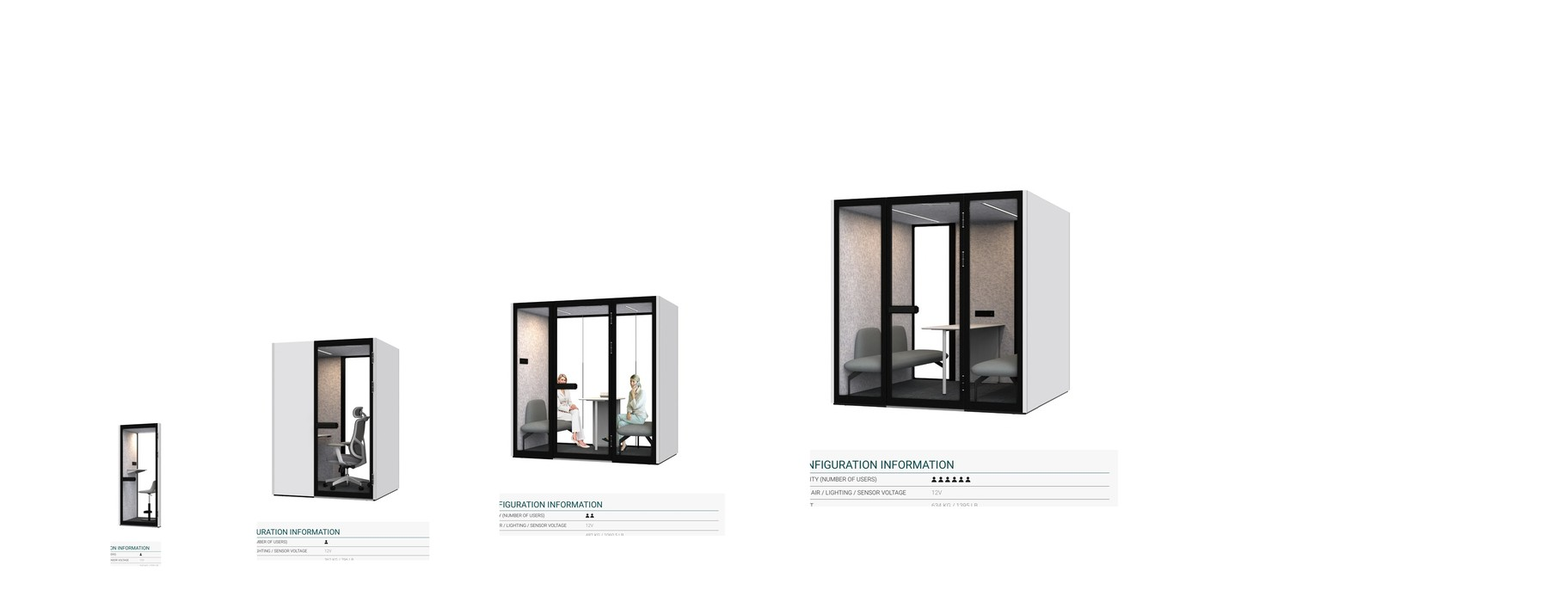
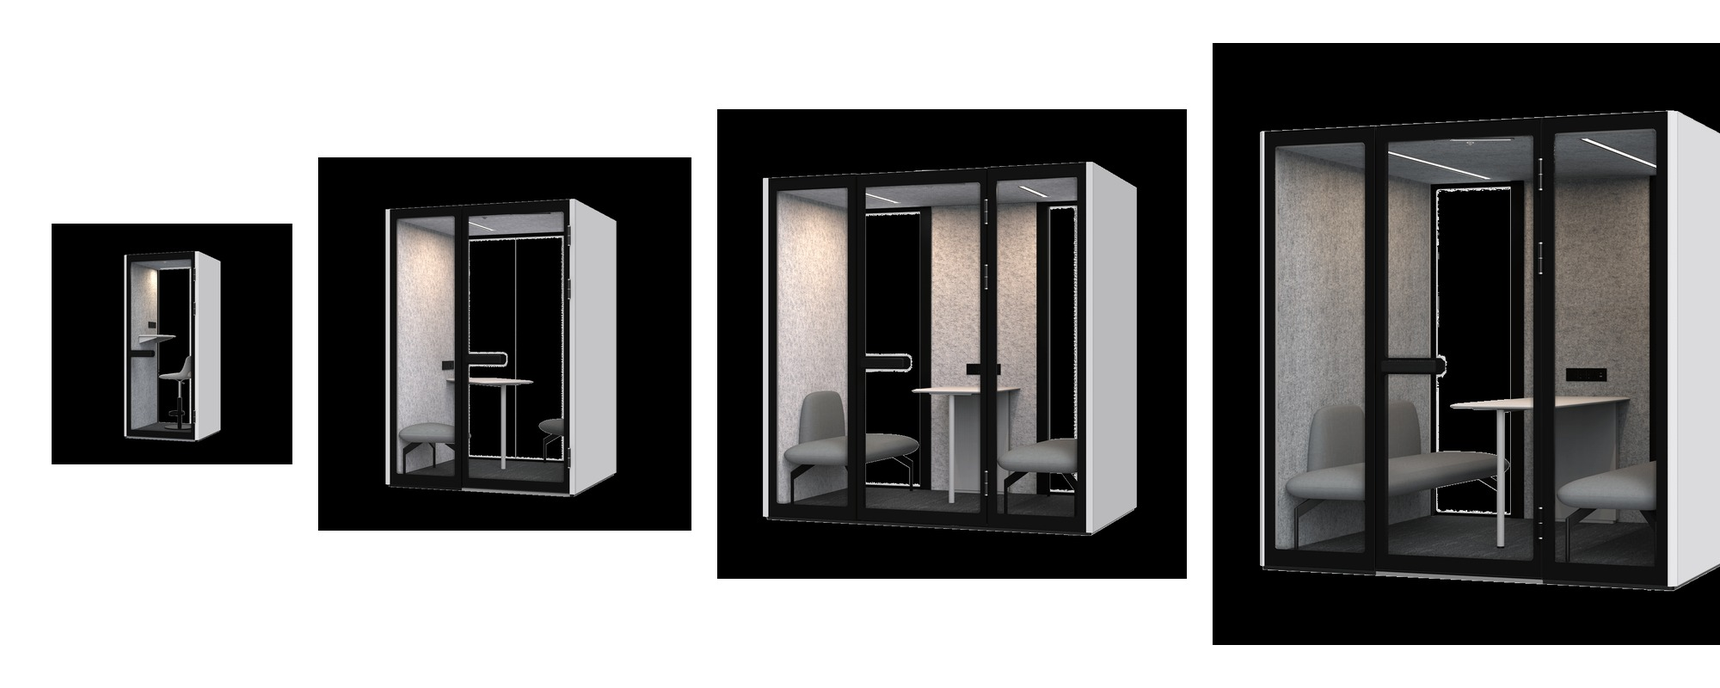
Major upgrade: clean tier images, branded carousel, noise demo, mtip@hey.com
Tier card images:
- Replaced spec-sheet-cropped tier renders with clean Comine product
  shots (no spec text, dark backgrounds, professional lighting)
- New lineup-comparison.jpg shows all 4 pods at relative scale

NEW: Image carousel section (#gallery)
- 18 high-res images of MTIP-branded pods in:
  open offices, coworking floors, lobbies, industrial spaces,
  airport terminals, multi-pod installations, and product detail
- All with subtle MTIP Collective brand badge overlay
- Horizontal scroll with snap, prev/next nav, slide counter

NEW: Interactive noise insulation demo (#hear-it)
- Web Audio API simulation
- Click 'Outside the pod' → ~68 dB pink noise + voices (open office)
- Click 'Step inside the pod' → smooth lowpass + volume drop to ~38 dB
- Live decibel meter, color shift to green when quiet
- Status messaging updates in real-time

CTAs and contact:
- All emails switched to mtip@hey.com
- 'Talk to Sales' → 'Talk to the Team' with phone icon
- New dark CTA card 'Want to talk through it with someone?'
  with Book-a-call + Email-the-team buttons

diff --git a/index.html b/index.html
@@ -18,7 +18,114 @@
 <link rel="preconnect" href="https://fonts.googleapis.com">
 <link rel="preconnect" href="https://fonts.gstatic.com" crossorigin>
 <link href="https://fonts.googleapis.com/css2?family=Inter:wght@300;400;500;600;700;800;900&display=swap" rel="stylesheet">
-<script src="https://unpkg.com/lucide@latest/dist/umd/lucide.js"></script>
+<script src="https://unpkg.com/lucide@latest/dist/umd/lucide.js">
+
+// CAROUSEL
+const cTrack = document.getElementById('carouselTrack');
+const cPrev = document.getElementById('carouselPrev');
+const cNext = document.getElementById('carouselNext');
+const cCounter = document.getElementById('carouselCounter');
+const cSlides = cTrack ? cTrack.querySelectorAll('.carousel-slide') : [];
+let cIdx = 0;
+function cUpdate(){if(!cCounter)return;cCounter.textContent=(cIdx+1)+' / '+cSlides.length;}
+function cGo(i){if(!cSlides.length)return;cIdx=Math.max(0,Math.min(cSlides.length-1,i));cSlides[cIdx].scrollIntoView({behavior:'smooth',inline:'center',block:'nearest'});cUpdate();}
+cPrev&&cPrev.addEventListener('click',()=>cGo(cIdx-1));
+cNext&&cNext.addEventListener('click',()=>cGo(cIdx+1));
+if(cTrack){let cTimer;cTrack.addEventListener('scroll',()=>{clearTimeout(cTimer);cTimer=setTimeout(()=>{const center=cTrack.scrollLeft+cTrack.clientWidth/2;let best=0,bestD=Infinity;cSlides.forEach((s,i)=>{const d=Math.abs(s.offsetLeft+s.clientWidth/2-center);if(d<bestD){bestD=d;best=i;}});cIdx=best;cUpdate();},120);});}
+cUpdate();
+
+// NOISE DEMO — Web Audio API
+let nCtx,nNoise,nGain,nFilter,nLfo,nLfoGain,nOscArr=[],nState='off';
+const nDb=document.getElementById('noiseDb');
+const nFill=document.getElementById('noiseFill');
+const nStatus=document.getElementById('noiseStatus');
+const nLabel=document.getElementById('noiseStateLabel');
+const nDesc=document.getElementById('noiseStateDesc');
+const nBtnO=document.getElementById('noiseBtnOutside');
+const nBtnI=document.getElementById('noiseBtnInside');
+const nBtnS=document.getElementById('noiseBtnStop');
+function nMakeNoise(ctx){
+  const buffer=ctx.createBuffer(1,ctx.sampleRate*2,ctx.sampleRate);
+  const data=buffer.getChannelData(0);
+  let lastOut=0;
+  // pink noise
+  for(let i=0;i<data.length;i++){const white=Math.random()*2-1;data[i]=(lastOut+(0.02*white))/1.02;lastOut=data[i];data[i]*=3.5;}
+  const src=ctx.createBufferSource();src.buffer=buffer;src.loop=true;return src;
+}
+function nStart(mode){
+  if(!nCtx){nCtx=new(window.AudioContext||window.webkitAudioContext)();}
+  if(nCtx.state==='suspended')nCtx.resume();
+  nStop(true);
+  nNoise=nMakeNoise(nCtx);
+  nFilter=nCtx.createBiquadFilter();
+  nFilter.type='lowpass';
+  nGain=nCtx.createGain();
+  nNoise.connect(nFilter);nFilter.connect(nGain);nGain.connect(nCtx.destination);
+  // Subtle "voices" added with detuned oscillators sweeping
+  const freqs=[180,240,300,420];
+  freqs.forEach(f=>{
+    const o=nCtx.createOscillator();const og=nCtx.createGain();
+    o.type='sawtooth';o.frequency.value=f;og.gain.value=0.012;
+    const lf=nCtx.createOscillator();const lfg=nCtx.createGain();
+    lf.frequency.value=0.4+Math.random()*0.6;lfg.gain.value=8;
+    lf.connect(lfg);lfg.connect(o.frequency);
+    o.connect(og);og.connect(nFilter);
+    o.start();lf.start();
+    nOscArr.push({o:o,lf:lf});
+  });
+  nNoise.start();
+  if(mode==='outside'){
+    nFilter.frequency.value=8000;
+    nGain.gain.value=0.30;
+    nState='outside';
+    setMeter(68,'Open office — too loud to focus.','outside');
+    nBtnO.classList.add('active');nBtnI.classList.remove('active');
+    nLabel.textContent='Open office — outside the pod';nDesc.textContent='Phone calls. Keyboard typing. Conversations.';
+  }else{
+    // smooth transition outside → inside
+    nFilter.frequency.value=8000;nGain.gain.value=0.30;
+    const t=nCtx.currentTime;
+    nFilter.frequency.exponentialRampToValueAtTime(420,t+1.2);
+    nGain.gain.exponentialRampToValueAtTime(0.04,t+1.2);
+    nState='inside';
+    setMeter(38,'Inside the pod — conversation-private.','inside');
+    nBtnI.classList.add('active');nBtnO.classList.remove('active');
+    nLabel.textContent='Inside the MTIP Pod';nDesc.textContent='30 dB acoustic walls. Filtered. Quiet. Yours.';
+  }
+}
+function setMeter(db,msg,mode){
+  const start=parseInt(nDb.textContent)||db;
+  let frame=0;
+  const total=24;
+  const stepDb=(db-start)/total;
+  const interval=setInterval(()=>{
+    frame++;
+    const cur=Math.round(start+stepDb*frame);
+    nDb.textContent=cur;
+    nFill.style.width=Math.max(5,Math.min(100,(cur-20)*1.5))+'%';
+    if(frame>=total)clearInterval(interval);
+  },24);
+  nStatus.textContent=msg;
+  if(mode==='inside'){nDb.classList.add('quiet');nStatus.classList.add('quiet');}
+  else{nDb.classList.remove('quiet');nStatus.classList.remove('quiet');}
+}
+function nStop(silent){
+  if(nNoise){try{nNoise.stop();}catch(e){}nNoise.disconnect();}
+  nOscArr.forEach(({o,lf})=>{try{o.stop();lf.stop();}catch(e){}});
+  nOscArr=[];
+  if(!silent){
+    nState='off';nBtnO.classList.remove('active');nBtnI.classList.remove('active');
+    setMeter(0,'Demo paused.','outside');
+    nDb.classList.remove('quiet');nStatus.classList.remove('quiet');
+  }
+}
+nBtnO&&nBtnO.addEventListener('click',()=>nStart('outside'));
+nBtnI&&nBtnI.addEventListener('click',()=>{
+  if(nState==='off')nStart('outside');
+  setTimeout(()=>nStart('inside'),200);
+});
+nBtnS&&nBtnS.addEventListener('click',()=>nStop());
+</script>
 <style>
 :root{--white:#FFFFFF;--bg-soft:#FAFAFA;--bg-section:#F5F5F7;--text:#1A1D24;--text-mid:#4B4F58;--text-light:#9CA3AF;--border:#E5E7EB;--border-strong:#D1D5DB;--black:#0A0B0D;--black-soft:#16181C;--red:#E53B3B;--red-dark:#B82E2E;--red-light:#F56363;--red-glow:rgba(229,59,59,0.12);--silver:#DEE1E6;--silver-2:#C9CDD3;--grad-cta:linear-gradient(135deg,#E53B3B 0%,#B82E2E 100%);--grad-cta-hover:linear-gradient(135deg,#F56363 0%,#E53B3B 100%);--shadow-sm:0 1px 3px rgba(0,0,0,0.06);--shadow-md:0 4px 16px rgba(0,0,0,0.08);--shadow-lg:0 16px 48px rgba(0,0,0,0.12);--shadow-red:0 8px 24px rgba(229,59,59,0.25)}
 *{margin:0;padding:0;box-sizing:border-box}
@@ -298,6 +405,63 @@ footer{padding:64px 0 40px;background:var(--black);color:rgba(255,255,255,0.6);t
 .footer-divider{height:1px;background:rgba(255,255,255,0.08);max-width:600px;margin:0 auto 28px}
 .footer-credit{font-size:0.82rem;color:rgba(255,255,255,0.4)}
 .footer-credit a{color:var(--red-light);font-weight:500}
+
+.carousel-section{padding:140px 0;background:var(--white);overflow:hidden}
+@media(max-width:768px){.carousel-section{padding:80px 0}}
+.carousel-wrap{position:relative;margin-top:48px}
+.carousel-track{display:flex;gap:20px;overflow-x:auto;scroll-snap-type:x mandatory;scroll-behavior:smooth;padding:8px 32px 32px;-webkit-overflow-scrolling:touch}
+.carousel-track::-webkit-scrollbar{height:6px}
+.carousel-track::-webkit-scrollbar-track{background:var(--bg-section);border-radius:3px}
+.carousel-track::-webkit-scrollbar-thumb{background:var(--red);border-radius:3px}
+.carousel-slide{flex:0 0 auto;width:560px;aspect-ratio:16/11;border-radius:20px;overflow:hidden;position:relative;scroll-snap-align:center;cursor:pointer;background:var(--bg-section);box-shadow:var(--shadow-sm)}
+@media(max-width:768px){.carousel-slide{width:88vw}}
+.carousel-slide img{width:100%;height:100%;object-fit:cover;transition:transform 0.4s}
+.carousel-slide:hover img{transform:scale(1.04)}
+.carousel-caption{position:absolute;bottom:0;left:0;right:0;padding:24px;background:linear-gradient(to top,rgba(0,0,0,0.85) 0%,transparent 100%);color:white}
+.carousel-caption strong{display:block;font-size:1.1rem;font-weight:700;margin-bottom:4px}
+.carousel-caption span{font-size:0.85rem;color:rgba(255,255,255,0.8)}
+.carousel-nav{display:flex;justify-content:center;align-items:center;gap:16px;margin-top:32px}
+.carousel-nav button{width:48px;height:48px;border-radius:50%;border:1.5px solid var(--border-strong);background:white;cursor:pointer;display:flex;align-items:center;justify-content:center;transition:all 0.2s;color:var(--text)}
+.carousel-nav button:hover{border-color:var(--red);color:var(--red);transform:scale(1.05)}
+.carousel-nav i{width:20px;height:20px}
+.carousel-counter{font-weight:700;color:var(--text-mid);font-feature-settings:'tnum';min-width:60px;text-align:center}
+
+.noise-demo{padding:140px 0;background:linear-gradient(135deg,#1A1D24 0%,#0A0B0D 100%);color:white;position:relative;overflow:hidden}
+@media(max-width:768px){.noise-demo{padding:80px 0}}
+.noise-demo::before{content:'';position:absolute;top:0;right:-20%;width:60%;height:100%;background:radial-gradient(ellipse at center,rgba(229,59,59,0.18) 0%,transparent 70%);pointer-events:none}
+.noise-demo h2{color:white;margin-bottom:24px}
+.noise-demo p{color:rgba(255,255,255,0.7)}
+.noise-grid{display:grid;grid-template-columns:1fr 1fr;gap:64px;align-items:center;margin-top:64px}
+@media(max-width:1024px){.noise-grid{grid-template-columns:1fr;gap:40px}}
+.noise-controls{display:flex;flex-direction:column;gap:24px}
+.noise-state{display:flex;align-items:center;gap:16px;padding:24px;background:rgba(255,255,255,0.04);border:1px solid rgba(255,255,255,0.08);border-radius:16px}
+.noise-state-icon{width:56px;height:56px;border-radius:14px;display:flex;align-items:center;justify-content:center;flex-shrink:0;background:rgba(229,59,59,0.15)}
+.noise-state-icon i{width:26px;height:26px;color:var(--red-light)}
+.noise-state-text strong{display:block;color:white;font-size:1.1rem;font-weight:700;margin-bottom:4px}
+.noise-state-text span{color:rgba(255,255,255,0.6);font-size:0.9rem}
+.noise-button-group{display:flex;flex-direction:column;gap:12px}
+.noise-btn{padding:20px 28px;background:transparent;border:2px solid rgba(255,255,255,0.15);border-radius:12px;color:white;font-family:inherit;font-size:1rem;font-weight:600;cursor:pointer;transition:all 0.2s;display:flex;align-items:center;gap:12px;text-align:left}
+.noise-btn:hover{border-color:var(--red);background:rgba(229,59,59,0.08)}
+.noise-btn.active{border-color:var(--red);background:var(--red);box-shadow:var(--shadow-red)}
+.noise-btn i{width:22px;height:22px}
+.noise-meter-wrap{position:relative;background:rgba(255,255,255,0.04);border:1px solid rgba(255,255,255,0.08);border-radius:24px;padding:48px 32px;text-align:center}
+.noise-meter-label{font-size:0.78rem;font-weight:700;letter-spacing:0.18em;text-transform:uppercase;color:rgba(255,255,255,0.5);margin-bottom:24px}
+.noise-meter-display{font-size:clamp(4rem,12vw,8rem);font-weight:900;color:var(--red);letter-spacing:-0.05em;line-height:1;font-feature-settings:'tnum';margin-bottom:8px;transition:color 0.5s,transform 0.4s}
+.noise-meter-display.quiet{color:#22C55E}
+.noise-meter-unit{font-size:1.5rem;font-weight:600;color:rgba(255,255,255,0.5);margin-bottom:32px}
+.noise-meter-bar{width:100%;height:12px;background:rgba(255,255,255,0.08);border-radius:6px;overflow:hidden;margin-bottom:12px}
+.noise-meter-fill{height:100%;background:linear-gradient(to right,#22C55E 0%,#FFA500 50%,var(--red) 100%);border-radius:6px;transition:width 0.5s ease;width:75%}
+.noise-meter-scale{display:flex;justify-content:space-between;font-size:0.72rem;color:rgba(255,255,255,0.4);font-weight:600}
+.noise-meter-status{margin-top:24px;padding:14px 20px;background:rgba(229,59,59,0.1);border:1px solid rgba(229,59,59,0.3);border-radius:10px;color:var(--red-light);font-size:0.95rem;font-weight:600}
+.noise-meter-status.quiet{background:rgba(34,197,94,0.1);border-color:rgba(34,197,94,0.3);color:#4ADE80}
+
+.cta-block{background:linear-gradient(135deg,#1A1D24 0%,#0A0B0D 100%);color:white;border-radius:24px;padding:48px;margin:80px auto 0;max-width:1100px;display:grid;grid-template-columns:1fr auto;gap:40px;align-items:center;box-shadow:var(--shadow-lg);position:relative;overflow:hidden}
+.cta-block::before{content:'';position:absolute;top:0;right:-20%;width:60%;height:100%;background:radial-gradient(ellipse at center,rgba(229,59,59,0.2) 0%,transparent 70%);pointer-events:none}
+.cta-block>*{position:relative;z-index:1}
+.cta-block h3{color:white;font-size:1.85rem;margin-bottom:8px}
+.cta-block p{color:rgba(255,255,255,0.7)}
+.cta-block .actions{display:flex;flex-direction:column;gap:10px}
+@media(max-width:768px){.cta-block{grid-template-columns:1fr;padding:36px;text-align:center}.cta-block .actions{align-items:center}}
 </style>
 </head>
 <body>
@@ -332,7 +496,7 @@ footer{padding:64px 0 40px;background:var(--black);color:rgba(255,255,255,0.6);t
 <div class="tier-card featured"><div class="tier-img"><img src="assets/images/pod-suite.jpg" alt="The Suite"></div><div class="tier-body"><div class="tier-rank">Super-Best · Replace Your Office</div><h3>The Suite</h3><p class="tier-tagline">Replace your $1,500–$2,500/mo executive office. Pays back in under 5 months.</p><ul class="tier-specs"><li><i data-lucide="users"></i><span><strong>1–6 people</strong></span></li><li><i data-lucide="ruler"></i><span><strong>~49 sq ft</strong> (4.5 m²)</span></li><li><i data-lucide="volume-x"></i><span><strong>30 ± 3 dB</strong> ISO certified</span></li><li><i data-lucide="zap"></i><span>90W · USB-C + Qi</span></li></ul><div class="tier-price-block"><div class="tier-price-amount" data-cash="$6,997" data-install="$699">$6,997</div><div class="tier-price-suffix" data-cash="paid once" data-install="/mo · 12 mo · $0 down">paid once</div></div><a href="#order" class="btn btn-red">Reserve The Suite</a></div></div>
 </div>
 
-<div style="text-align:center;margin-top:48px"><p style="color:var(--text-mid)">Need <strong style="color:var(--text)">accessibility configuration</strong>? The Accessible Pod is engineered for users with reduced mobility — wide entry, auto-opening door, multi-modal access. <strong style="color:var(--text)">Pricing on request.</strong></p><a href="mailto:hello@mtip.ai?subject=Accessible%20Pod%20Inquiry" class="btn btn-ghost" style="margin-top:12px">Talk to us about accessibility <i data-lucide="arrow-right"></i></a></div>
+<div style="text-align:center;margin-top:48px"><p style="color:var(--text-mid)">Need <strong style="color:var(--text)">accessibility configuration</strong>? The Accessible Pod is engineered for users with reduced mobility — wide entry, auto-opening door, multi-modal access. <strong style="color:var(--text)">Pricing on request.</strong></p><a href="mailto:mtip@hey.com?subject=Accessible%20Pod%20Inquiry" class="btn btn-ghost" style="margin-top:12px">Talk to us about accessibility <i data-lucide="arrow-right"></i></a></div>
 </div></section>
 
 <section class="section" id="compare"><div class="container">
@@ -405,7 +569,60 @@ footer{padding:64px 0 40px;background:var(--black);color:rgba(255,255,255,0.6);t
 </div>
 </div></section>
 
-<section class="fullbleed" id="showroom"><img src="assets/images/showroom-2.jpg" alt="MTIP Collective Pods in a real office"><div class="fullbleed-overlay"><div class="fullbleed-content"><div><div class="eyebrow" style="color:var(--red-light)">Try before you buy</div><h2>Sit in one.<br>Then decide.</h2><p>Pictures don't tell you what 30 dB feels like. Visit MTIP Collective in Florida and step inside. Take a real call. Listen to the difference. Then sign.</p><a href="mailto:hello@mtip.ai?subject=Showroom%20Visit" class="btn btn-red btn-lg">Book a Showroom Visit <i data-lucide="arrow-right"></i></a></div></div></div></section>
+
+<section class="noise-demo" id="hear-it"><div class="container">
+<div class="section-header center"><div class="eyebrow" style="color:var(--red-light)">Hear it for yourself</div><h2>30 dB.<br>That's the difference.</h2><p class="lead" style="color:rgba(255,255,255,0.65);margin-left:auto;margin-right:auto">A normal open office sits between 60 and 75 dB — calls, keyboards, meetings, footsteps. Inside an MTIP Collective Pod, that drops to roughly 40 dB. Hit play. Then step inside.</p></div>
+<div class="noise-grid">
+<div class="noise-controls">
+<div class="noise-state"><div class="noise-state-icon"><i data-lucide="ear" id="noiseStateIcon"></i></div><div class="noise-state-text"><strong id="noiseStateLabel">Open office — outside the pod</strong><span id="noiseStateDesc">Phone calls. Keyboard typing. Conversations.</span></div></div>
+<div class="noise-button-group">
+<button class="noise-btn active" id="noiseBtnOutside"><i data-lucide="play"></i><div><strong>Outside the pod</strong><div style="color:rgba(255,255,255,0.6);font-size:0.85rem;margin-top:2px">Hear what your office sounds like right now</div></div></button>
+<button class="noise-btn" id="noiseBtnInside"><i data-lucide="volume-1"></i><div><strong>Step inside the pod</strong><div style="color:rgba(255,255,255,0.6);font-size:0.85rem;margin-top:2px">Same sound, with our 30 dB acoustic walls</div></div></button>
+<button class="noise-btn" id="noiseBtnStop" style="opacity:0.6"><i data-lucide="square"></i><div><strong>Stop demo</strong></div></button>
+</div>
+<p style="color:rgba(255,255,255,0.45);font-size:0.85rem;margin-top:8px"><i data-lucide="info" style="width:14px;height:14px;display:inline;vertical-align:-2px"></i> Browser audio simulation. Not a measurement of an actual pod — but the dB drop is what real ISO-23351-1 testing reports.</p>
+</div>
+<div class="noise-meter-wrap">
+<div class="noise-meter-label">Sound level</div>
+<div class="noise-meter-display" id="noiseDb">68</div>
+<div class="noise-meter-unit">dB</div>
+<div class="noise-meter-bar"><div class="noise-meter-fill" id="noiseFill"></div></div>
+<div class="noise-meter-scale"><span>30 dB · whisper</span><span>60 dB · conversation</span><span>90 dB · loud</span></div>
+<div class="noise-meter-status" id="noiseStatus">Open office — too loud to focus.</div>
+</div>
+</div>
+</div></section>
+
+
+<section class="carousel-section" id="gallery"><div class="container">
+<div class="section-header center"><div class="eyebrow">In every room</div><h2>One pod.<br>Every space.</h2><p class="lead" style="margin-left:auto;margin-right:auto">From private offices to airport terminals to coworking floors to home studios — see MTIP Collective Pods in the wild.</p></div>
+</div>
+<div class="carousel-wrap">
+<div class="carousel-track" id="carouselTrack">
+<div class="carousel-slide"><img src="assets/images/carousel-09-pod-in-office.jpg" alt="Pod in office"><div class="carousel-caption"><strong>Open office, private call</strong><span>Drop one between desks · 28 dB sound floor</span></div></div>
+<div class="carousel-slide"><img src="assets/images/carousel-10-pod-coworking.jpg" alt="Pod in coworking"><div class="carousel-caption"><strong>Coworking floor</strong><span>Members get private space without a private lease</span></div></div>
+<div class="carousel-slide"><img src="assets/images/carousel-11-pod-lounge.jpg" alt="Pod in lounge"><div class="carousel-caption"><strong>Lobby and lounge</strong><span>Hospitality-grade aesthetic. Hotel + airport-ready.</span></div></div>
+<div class="carousel-slide"><img src="assets/images/carousel-12-pod-industrial.jpg" alt="Pod in industrial"><div class="carousel-caption"><strong>Industrial / WeWork-style</strong><span>Modern build-outs · slot in next to exposed brick</span></div></div>
+<div class="carousel-slide"><img src="assets/images/carousel-15-pod-lobby.jpg" alt="Pod in lobby"><div class="carousel-caption"><strong>Corporate lobby</strong><span>Quiet meetings without booking a conference room</span></div></div>
+<div class="carousel-slide"><img src="assets/images/carousel-16-pod-meeting.jpg" alt="Meeting pod"><div class="carousel-caption"><strong>The Quad as drop-in meeting room</strong><span>4-person session · zero build-out · zero permits</span></div></div>
+<div class="carousel-slide"><img src="assets/images/carousel-13-pod-walking-by.jpg" alt="Pod airport"><div class="carousel-caption"><strong>Airport terminal</strong><span>The call before the gate · 90 seconds of quiet</span></div></div>
+<div class="carousel-slide"><img src="assets/images/carousel-14-pod-multi.jpg" alt="Multi pods"><div class="carousel-caption"><strong>Multiple pods on a floor</strong><span>Bulk pricing for 2+ pod orders</span></div></div>
+<div class="carousel-slide"><img src="assets/images/carousel-17-pod-working.jpg" alt="Pod working"><div class="carousel-caption"><strong>Inside The Suite, working</strong><span>Real desk, real chair, real focus.</span></div></div>
+<div class="carousel-slide"><img src="assets/images/carousel-18-pod-accessible-context.jpg" alt="Accessible pod"><div class="carousel-caption"><strong>Accessible Pod</strong><span>Wide entry · auto-open door · multi-modal access</span></div></div>
+<div class="carousel-slide"><img src="assets/images/carousel-01-studio-front.jpg" alt="Studio front"><div class="carousel-caption"><strong>The Studio · Solo</strong><span>~10 sq ft · for recording, AI command, focus</span></div></div>
+<div class="carousel-slide"><img src="assets/images/carousel-02-duo-side.jpg" alt="Duo side"><div class="carousel-caption"><strong>The Duo · 1–2 person</strong><span>~23 sq ft · the smart 1-person office</span></div></div>
+<div class="carousel-slide"><img src="assets/images/carousel-03-quad-with-people.jpg" alt="Quad with people"><div class="carousel-caption"><strong>The Quad · 4-person</strong><span>~31 sq ft · drop-in meeting room</span></div></div>
+<div class="carousel-slide"><img src="assets/images/carousel-04-suite-interior.jpg" alt="Suite interior"><div class="carousel-caption"><strong>The Suite · 1–6 person</strong><span>~49 sq ft · replace your $1,500–$2,500/mo office</span></div></div>
+<div class="carousel-slide"><img src="assets/images/carousel-05-quad-alt-angle.jpg" alt="Quad alt"><div class="carousel-caption"><strong>The Quad — alternate angle</strong><span>Sliding door · 30 dB ISO-certified</span></div></div>
+<div class="carousel-slide"><img src="assets/images/carousel-06-duo-detail.jpg" alt="Duo detail"><div class="carousel-caption"><strong>The Duo · interior detail</strong><span>Acoustic walls · adjustable desk · LED lighting</span></div></div>
+<div class="carousel-slide"><img src="assets/images/carousel-07-quad-side.jpg" alt="Quad side"><div class="carousel-caption"><strong>The Quad · side profile</strong><span>Modular construction · 90-min on-site assembly</span></div></div>
+<div class="carousel-slide"><img src="assets/images/carousel-08-accessible-detail.jpg" alt="Accessible detail"><div class="carousel-caption"><strong>Accessible Pod · interior</strong><span>Foldable desktop · barrier-free entry</span></div></div>
+</div>
+<div class="carousel-nav"><button id="carouselPrev" aria-label="Previous"><i data-lucide="arrow-left"></i></button><div class="carousel-counter" id="carouselCounter">1 / 18</div><button id="carouselNext" aria-label="Next"><i data-lucide="arrow-right"></i></button></div>
+</div>
+</section>
+
+<section class="fullbleed" id="showroom"><img src="assets/images/showroom-2.jpg" alt="MTIP Collective Pods in a real office"><div class="fullbleed-overlay"><div class="fullbleed-content"><div><div class="eyebrow" style="color:var(--red-light)">Try before you buy</div><h2>Sit in one.<br>Then decide.</h2><p>Pictures don't tell you what 30 dB feels like. Visit MTIP Collective in Florida and step inside. Take a real call. Listen to the difference. Then sign.</p><a href="mailto:mtip@hey.com?subject=Showroom%20Visit" class="btn btn-red btn-lg">Book a Showroom Visit <i data-lucide="arrow-right"></i></a></div></div></div></section>
 
 <section class="section"><div class="container">
 <div class="section-header center"><div class="eyebrow">In the wild</div><h2>Drop one anywhere.<br>It works.</h2><p class="lead" style="margin-left:auto;margin-right:auto">Coworking floors. Hotel lobbies. Airport terminals. Libraries. Warehouses. Home offices. The pod doesn't care where it lands.</p></div>
@@ -441,8 +658,20 @@ footer{padding:64px 0 40px;background:var(--black);color:rgba(255,255,255,0.6);t
 <div class="order-table"><div class="order-table-wrap"><table><thead><tr><th>Pod</th><th>Capacity</th><th>Footprint</th><th>Pay Once</th><th>$0 Down · 12-mo</th></tr></thead><tbody><tr><td class="name"><strong>The Studio</strong></td><td>1</td><td>~10 sq ft</td><td class="price">$2,997</td><td class="price price-red">$299/mo</td></tr><tr><td class="name"><strong>The Duo</strong></td><td>2</td><td>~23 sq ft</td><td class="price">$4,497</td><td class="price price-red">$449/mo</td></tr><tr><td class="name"><strong>The Quad</strong></td><td>4</td><td>~31 sq ft</td><td class="price">$5,497</td><td class="price price-red">$549/mo</td></tr><tr class="featured"><td class="name"><strong>The Suite ★</strong></td><td>1–6</td><td>~49 sq ft</td><td class="price">$6,997</td><td class="price price-red">$699/mo</td></tr><tr><td><strong>Accessible Pod</strong></td><td>2 / 4</td><td>varies</td><td colspan="2" style="color:var(--text-mid)">On request</td></tr></tbody></table></div></div>
 <p class="compare-foot">Prices are landed delivery to continental US. International, custom finishes, and bulk orders quoted separately. Installment plan adds 20% to total price, divided into 12 equal payments, no down payment required.</p>
 
-<div style="display:flex;justify-content:center;gap:12px;margin-top:48px;flex-wrap:wrap"><a href="mailto:hello@mtip.ai?subject=MTIP%20Pod%20Reservation" class="btn btn-red btn-lg">Reserve Your Pod <i data-lucide="arrow-right"></i></a><a href="mailto:hello@mtip.ai?subject=MTIP%20Pod%20Inquiry" class="btn btn-outline btn-lg">Talk to Sales</a></div>
+<div style="display:flex;justify-content:center;gap:12px;margin-top:48px;flex-wrap:wrap"><a href="mailto:mtip@hey.com?subject=MTIP%20Pod%20Reservation" class="btn btn-red btn-lg">Reserve Your Pod <i data-lucide="arrow-right"></i></a><a href="mailto:mtip@hey.com?subject=MTIP%20Pod%20Inquiry" class="btn btn-outline btn-lg">Talk to the Team <i data-lucide="phone"></i></a></div>
 </div></section>
+
+
+<div class="cta-block">
+  <div>
+    <h3>Want to talk through it with someone?</h3>
+    <p>Pricing questions, custom configurations, bulk orders, or you just want a 10-minute walk-through call before you commit. Pick the channel.</p>
+  </div>
+  <div class="actions">
+    <a href="mailto:mtip@hey.com?subject=Book%20a%20call%20-%20MTIP%20Pods" class="btn btn-red">Book a call <i data-lucide="calendar"></i></a>
+    <a href="mailto:mtip@hey.com?subject=Question%20about%20MTIP%20Pods" class="btn btn-outline" style="border-color:rgba(255,255,255,0.3);color:white">Email the team <i data-lucide="mail"></i></a>
+  </div>
+</div>
 
 <section class="section section-soft"><div class="container">
 <div class="section-header center"><div class="eyebrow">Brochure &amp; resources</div><h2>Everything you need<br>to decide.</h2></div>
@@ -471,9 +700,9 @@ footer{padding:64px 0 40px;background:var(--black);color:rgba(255,255,255,0.6);t
 </div>
 </div></section>
 
-<section class="final-cta"><div class="container"><h2>Build your office in 90 days.<br>Not 9 months.</h2><p>You don't need a contractor. You don't need a permit. You don't need a 5-year lease. You need a pod.</p><div class="final-cta-buttons"><a href="mailto:hello@mtip.ai?subject=Reserve%20The%20Suite" class="btn btn-red btn-lg">Reserve The Suite — $6,997 <i data-lucide="arrow-right"></i></a><a href="#lineup" class="btn btn-outline btn-lg">See All Four Pods</a></div></div></section>
+<section class="final-cta"><div class="container"><h2>Build your office in 90 days.<br>Not 9 months.</h2><p>You don't need a contractor. You don't need a permit. You don't need a 5-year lease. You need a pod.</p><div class="final-cta-buttons"><a href="mailto:mtip@hey.com?subject=Reserve%20The%20Suite" class="btn btn-red btn-lg">Reserve The Suite — $6,997 <i data-lucide="arrow-right"></i></a><a href="#lineup" class="btn btn-outline btn-lg">See All Four Pods</a></div></div></section>
 
-<footer><div class="container"><div class="footer-logo"><img src="assets/images/mtip-logo-white.png" alt="MTIP Collective"></div><div class="footer-tagline">Private. Professional. Plug-and-Play Workspaces.</div><div class="footer-links"><a href="https://collective.mtip.ai/">MTIP Collective Coworking</a><a href="#suite">The Suite</a><a href="#lineup">Lineup</a><a href="#order">Order</a><a href="mailto:hello@mtip.ai">Contact</a></div><div class="footer-divider"></div><div class="footer-credit">© 2026 MTIP Collective. All rights reserved. · Powered by <a href="https://ai-loren.com">LOREN AI</a></div></div></footer>
+<footer><div class="container"><div class="footer-logo"><img src="assets/images/mtip-logo-white.png" alt="MTIP Collective"></div><div class="footer-tagline">Private. Professional. Plug-and-Play Workspaces.</div><div class="footer-links"><a href="https://collective.mtip.ai/">MTIP Collective Coworking</a><a href="#suite">The Suite</a><a href="#lineup">Lineup</a><a href="#order">Order</a><a href="mailto:mtip@hey.com">Contact</a></div><div class="footer-divider"></div><div class="footer-credit">© 2026 MTIP Collective. All rights reserved. · Powered by <a href="https://ai-loren.com">LOREN AI</a></div></div></footer>
 
 <script>
 lucide.createIcons();
